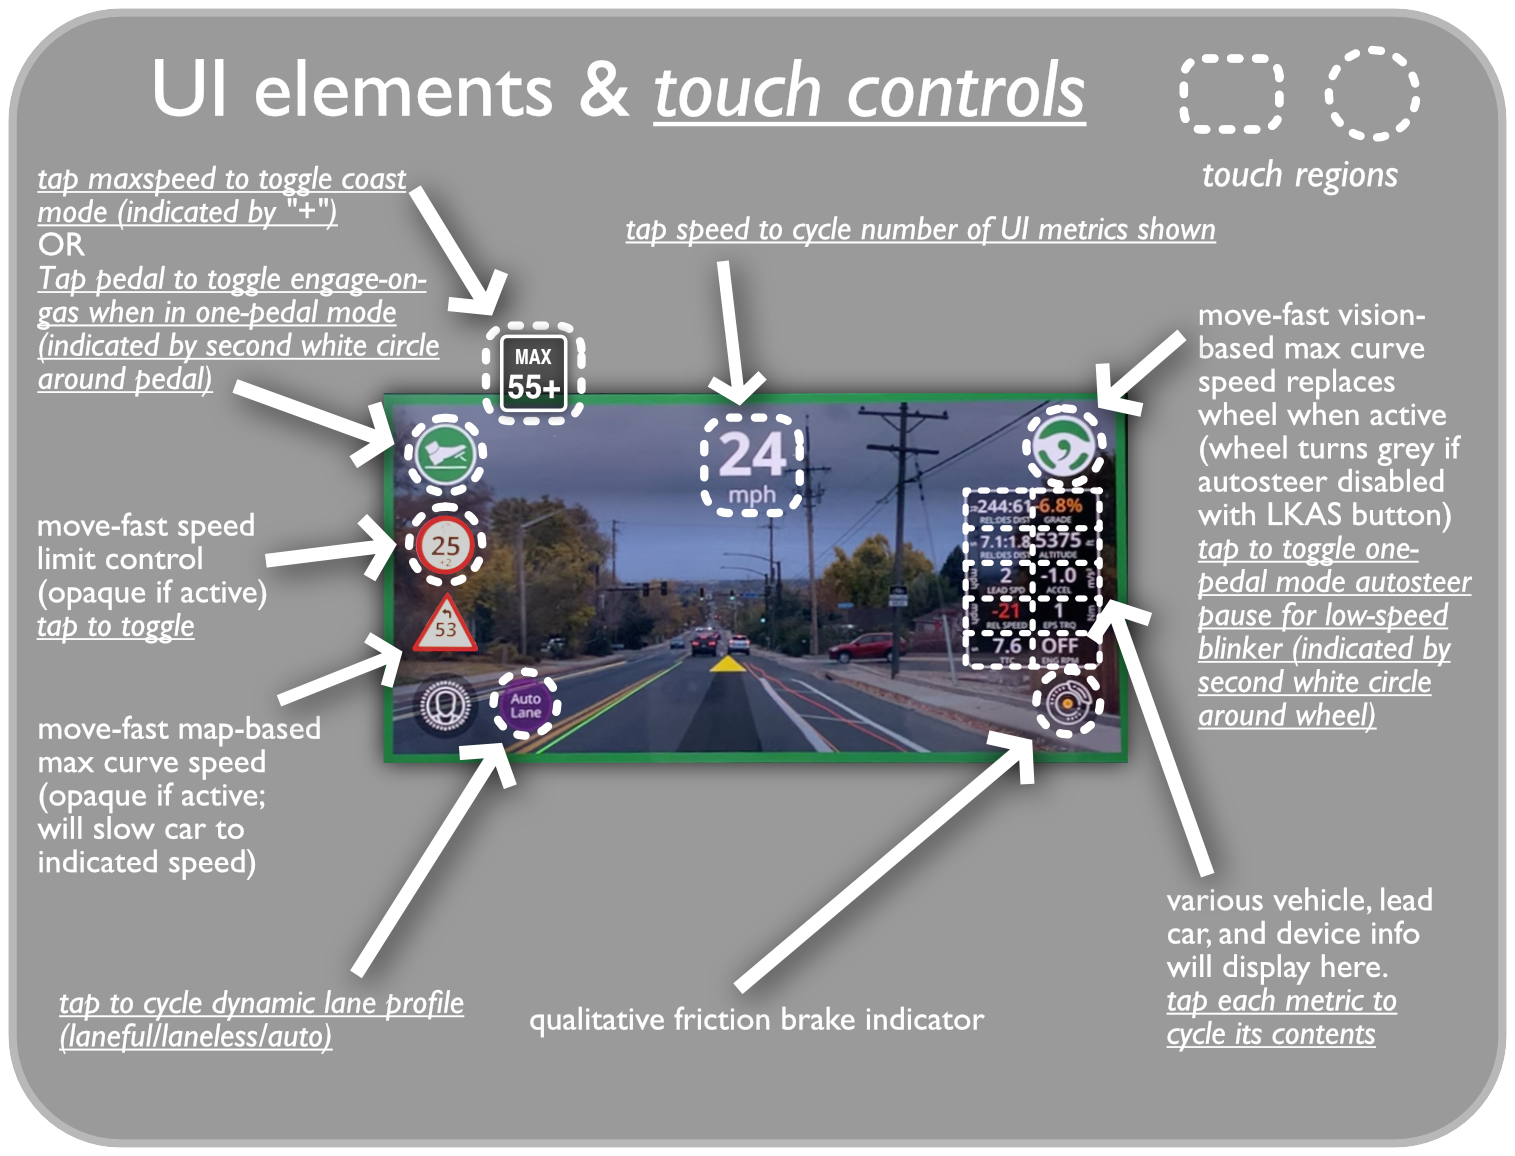
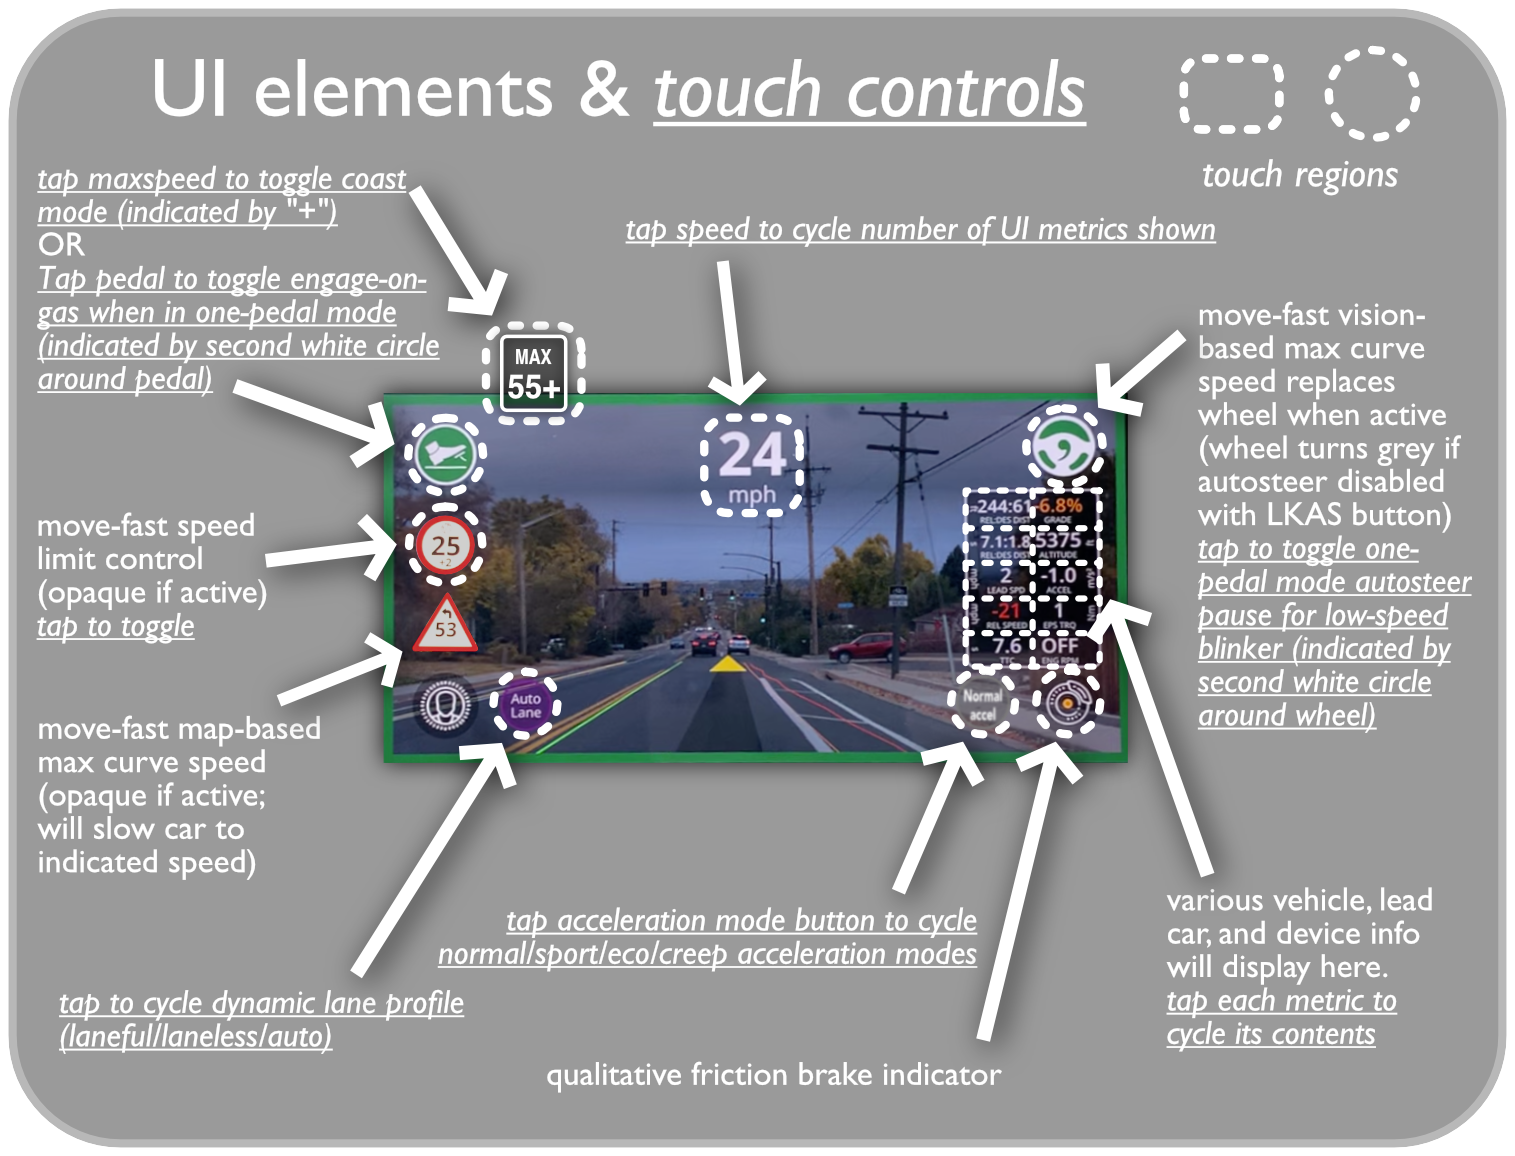
update infographics, readme, releases

Changed region(s): [[0.2792, 0.5606, 0.7135, 0.9343]]

diff --git a/README.md b/README.md
@@ -34,7 +34,7 @@ Running on move-fast fork of openpilot, which adds:
 - [x] [GM] Toggle steering with LKAS button (wheel color changes to indicate disengagement)
 - [x] [GM] One-pedal driving a.k.a. autosteering only a.k.a. toggle longitudinal control: using regen (volt) and/or light/moderate/heavy braking, control OP all the way to a stop, without a lead, and without disengaging, with just the gas pedal (see below)
 - [x] [✅] [Dynamic Lane Profile](https://github.com/sunnyhaibin/openpilot#new-dynamic-lane-profile-dlp) (DLP); *tap button while driving to switch between auto/laneless/lane-only. must enable "Disable use of lanelines" for button to appear* (ported from sunnyhaibin)
-- [x] [✅] Normal/sport acceleration modes with improved acceleration/braking profiles (ported from kegman)
+- [x] [✅] Normal/sport/eco/creep acceleration modes [cycle with on-screen button]
 - [x] [✅] 1/5 mph changes for tap/hold of the inc/dec buttons (ported from Spector56)
 - [x] [✅] 3mph cruise speed offset: speed will be 23/28/33/38/etc.
 - [x] [✅] Alternate sound effect set

diff --git a/RELEASES.md b/RELEASES.md
@@ -1,6 +1,9 @@
 Version tw-0.8.9-3.6 (2021-11-20)
 ========================
- * NEW: added toggle to disable uploads when on-road. Save that hotspot data!
+ * NEW: acceleration mode button on-screen cycles between normal/sport/eco/creep acceleration profiles
+ * NEW: added toggle to disable uploads when on-road (and waits for 15 minutes after entering offroad state before starting uploads). Save that hotspot data!
+ * FIXED: Engine RPM UI metric no longer rolls over to zero at 4095 rpms
+ * IMPROVED: Rngine RPM UI metric rounds to 10 rpms now instead of 100
 
 Version tw-0.8.9-3.5 (2021-11-10)
 ========================
